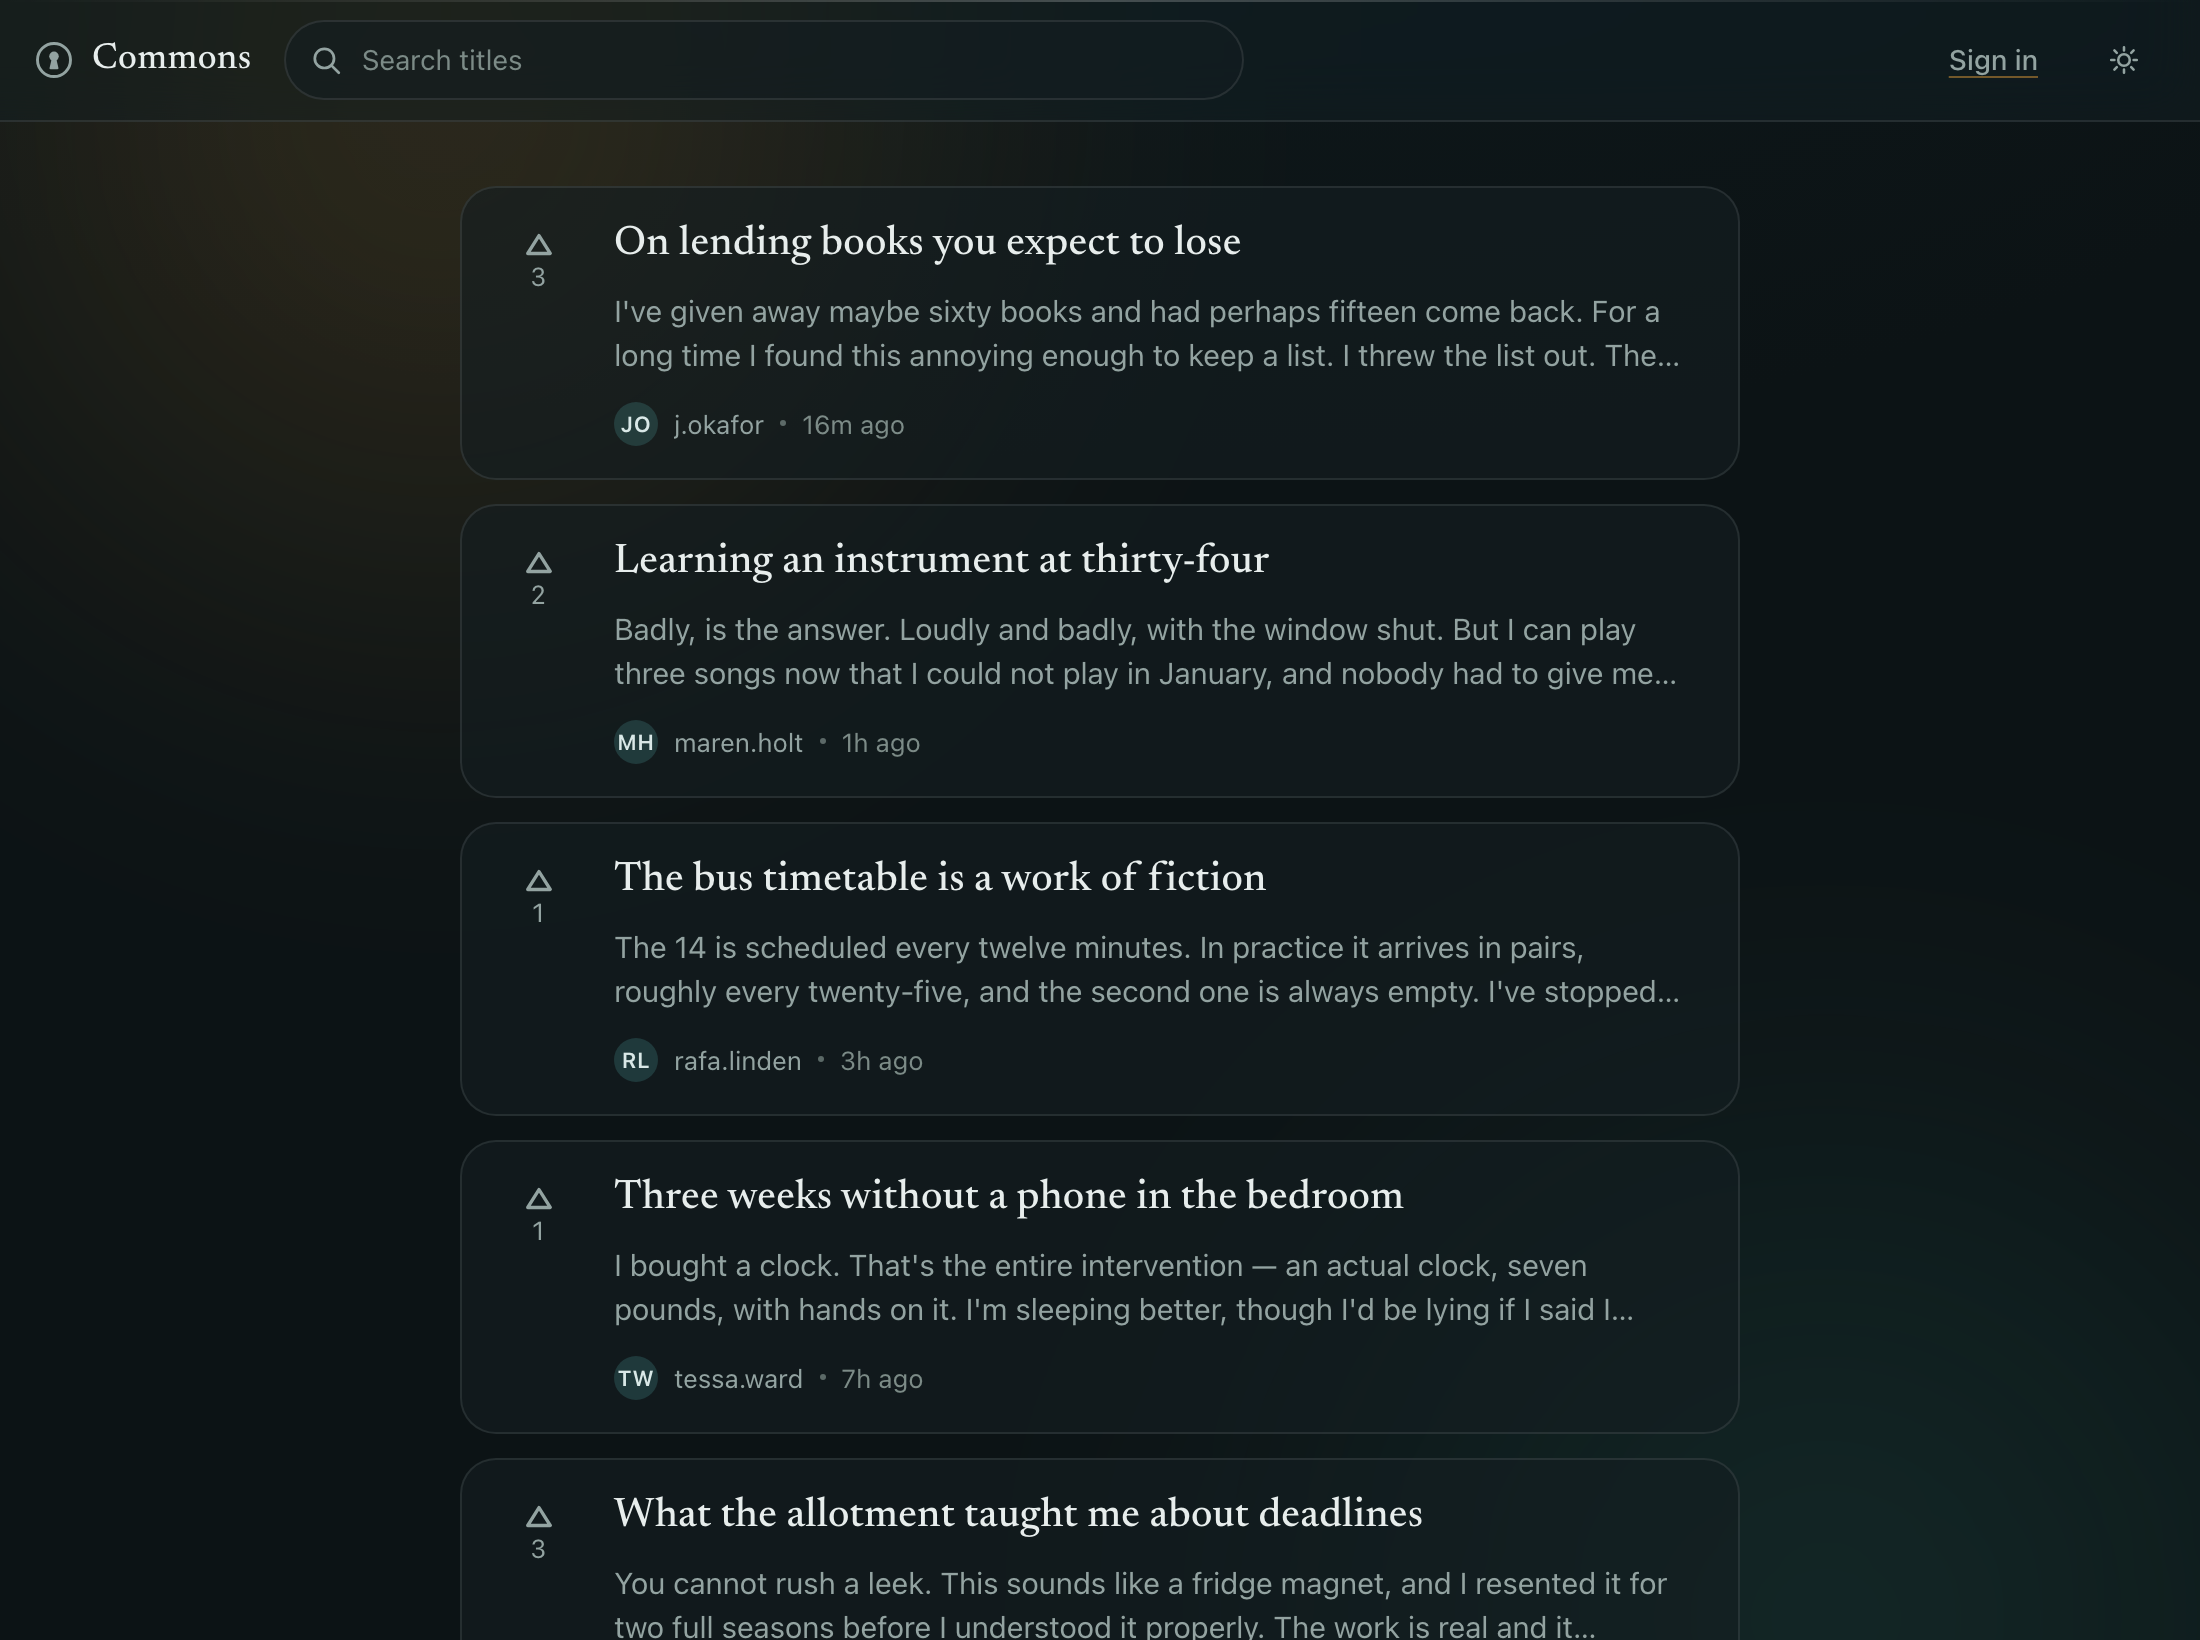
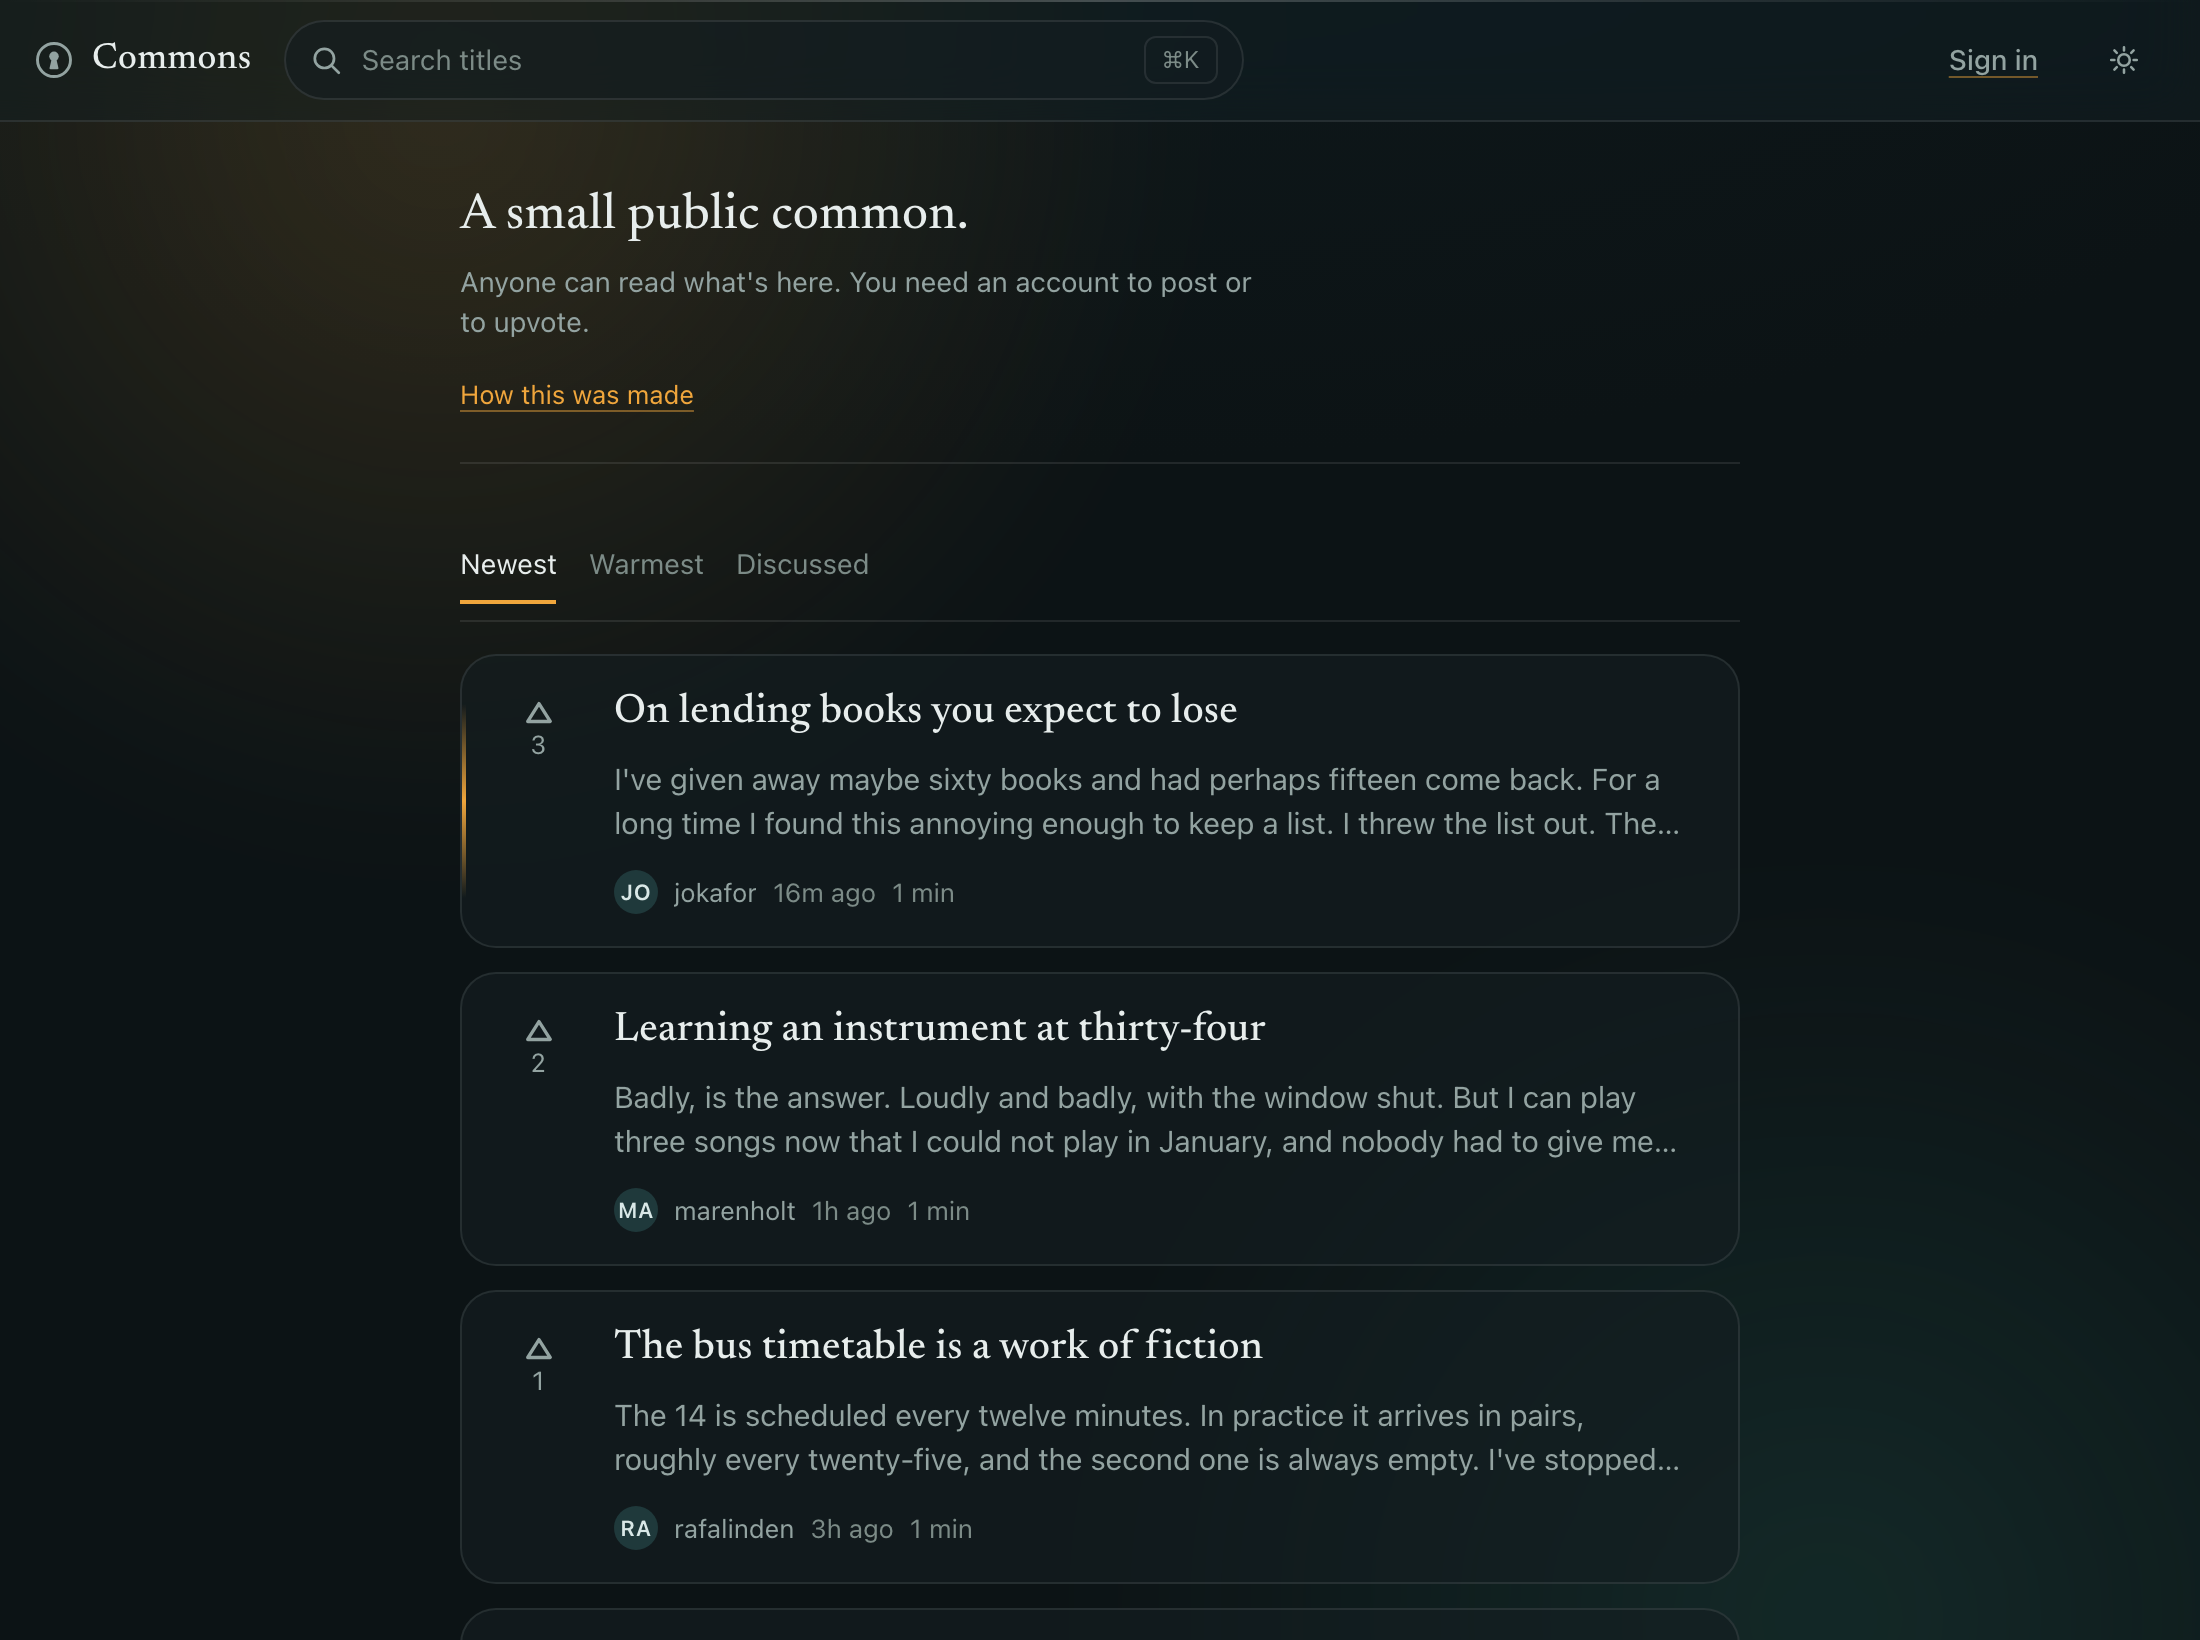
feat: enhance scroll progress indicator and update settings screen capture logic

diff --git a/docs/make_gif.py b/docs/make_gif.py
@@ -68,7 +68,20 @@ def main() -> int:
         duration=MS_PER_FRAME,
         loop=0,
         optimize=True,
-        disposal=2,
+        # 1 = leave the previous frame in place, not 2 = clear it first.
+        #
+        # Clearing is what you need when frames carry transparency and would
+        # otherwise ghost through each other. Nothing here does: every frame is
+        # an opaque, full-canvas screenshot. What disposal=2 did instead was
+        # defeat `optimize=True` — a frame that must be drawn onto a cleared
+        # canvas cannot be stored as a difference from the one before it, so
+        # every frame was written in full.
+        #
+        # Measured on the 125-frame tour, decoding both and comparing each
+        # frame against its source PNG: identical output, worst per-pixel
+        # difference 0, 5.7 MB against 3.3 MB. The README loads a GIF a third
+        # smaller and nobody can tell which one they are looking at.
+        disposal=1,
     )
     size_mb = out.stat().st_size / 1_000_000
     print(f"wrote {out.relative_to(HERE.parent)}  "

diff --git a/README.md b/README.md
@@ -41,7 +41,7 @@ feed. Reading is public; writing needs a token.
 ## A look at it
 
 <p align="center">
-  <img alt="Reading a post, writing a post, upvoting" src="docs/media/tour.gif" width="720" />
+  <img alt="Scrolling the feed, reading a post, signing in, upvoting, writing one, and the settings screen" src="docs/media/tour.gif" width="720" />
 </p>
 
 <table>
@@ -53,17 +53,26 @@ feed. Reading is public; writing needs a token.
 <td><img alt="Light theme" src="docs/media/feed-light.png" /><br /><sub>Light theme — a cool off-white, never cream.</sub></td>
 <td align="center"><img alt="On a phone" src="docs/media/feed-mobile.png" width="260" /><br /><sub>390px. The header collapses to two rows.</sub></td>
 </tr>
+<tr>
+<td colspan="2"><img alt="The settings screen, showing the theme and reading controls" src="docs/media/settings-dark.png" /><br /><sub>Settings, part two of three. The theme as <em>three</em> choices rather than a toggle's two — <em>System</em> keeps following your device, which the header toggle alone can never get back to — and the reading controls with a line of type set the way a post will be, so the choice is something you can see rather than something you go and check. The amber line under the header is the scroll progress indicator, at the position the page is actually scrolled to.</sub></td>
+</tr>
 </table>
 
 <p align="center">
-  <img alt="The app offering to install, then the network going, then a post still reading" src="docs/media/pwa.gif" width="720" />
+  <img alt="The app offering to install, the network going, a post still reading, and a new version announcing itself when the connection returns" src="docs/media/pwa.gif" width="720" />
 </p>
 
 <sub>And the other half of it: the install offer in the masthead and in the
 command palette, the network switched off, and the reading carrying on —
 files from the service worker's cache, answers from a module that was itself
-served out of it. The network really is off in that recording. What isn't
-shown is the app in its own frameless window, because a screenshot is of a
+served out of it. The network really is off in that recording. It ends on the
+sequence the update beacon exists for: a deploy lands while you are offline,
+and the moment the connection returns the app says so, because
+<code>js/update.js</code> watches for the connection coming back as well as for
+the tab becoming visible — a reader who was offline across a deploy is exactly
+the one whose check failed and returned nothing. Nothing there is staged but the
+deploy itself; the band is the app's own, raised by its own comparison. What
+isn't shown is the app in its own frameless window, because a screenshot is of a
 page and a tab and an installed window make identical pixels; the difference
 is the browser chrome around it, which belongs to the operating system.</sub>
 
